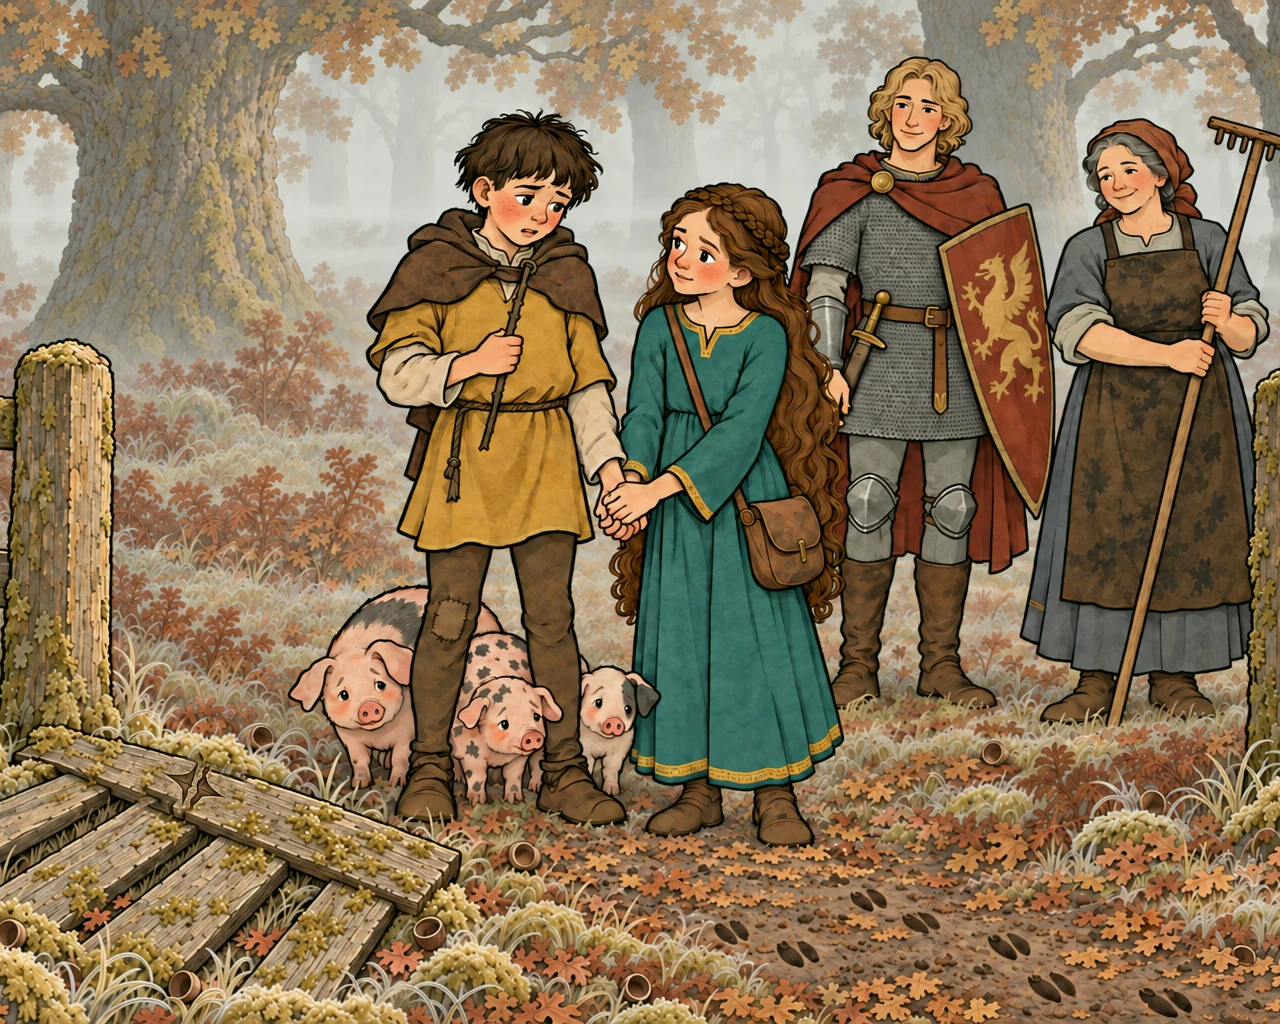
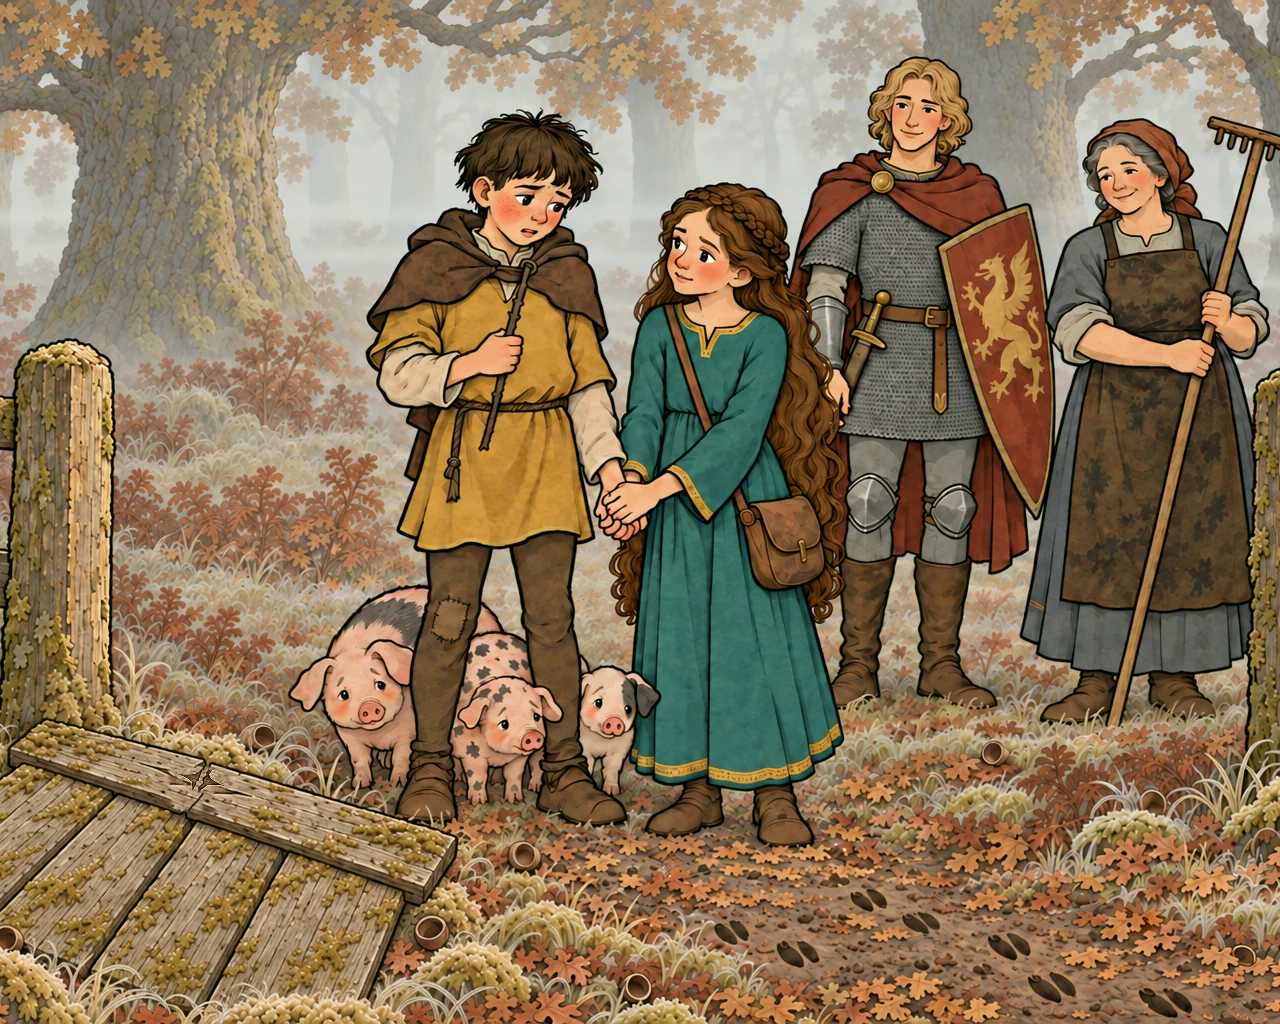
Forest p4: the old gate's four broad planks lie edge to edge, as on p3

Changed region(s): [[0.0, 0.6562, 0.4062, 1.0]]

diff --git a/prototypes/prompts/_build_forest.py b/prototypes/prompts/_build_forest.py
@@ -619,6 +619,16 @@ again("fo-p3-follow-piglets", "fo-p3-follow-pigletsf", "fo-p3-follow-pigletsh", 
       neg="no three-plank gate; no five planks; no narrow planks")
 # Shipped: fo-p5-ask-kindlyk = i + the four planks from j (crossbar and star kept); fo-p3-follow-pigletsi = f + the whole four-plank gate from h.
 
+# Author 2026-11-01: on p4 the old gate's planks were narrow with wide gaps of grass between them, unlike p3.
+again("fo-p4", "fo-p4h", "fo-p4i", "everything except the planks of the broken gate lying in the grass",
+      "the OLD broken gate lying in the grass looks exactly like the attached OLD GATE DETAIL (fo-old-gate-setting.png, cut from page 3 "
+      "of this tale): EXACTLY FOUR BROAD weathered grey planks lying side by side, edge to edge, with only thin dark seams between them "
+      "and no grass showing between the planks; together they are about as long as the crossbar is wide. The crossbar and its split "
+      "carved star stay exactly as they are, in the same place.", neg="no narrow planks; no gaps of grass between the planks; no fifth plank")
+m.PAGES["fo-p4"]["extra_refs"] = list(dict.fromkeys(list(m.PAGES["fo-p4"]["extra_refs"]) + ["fo-old-gate-setting.png"]))
+# Shipped: fo-p4j = h + the whole broad-plank gate from i; fo-p4k = j with i's wedge break cloned away and the canonical
+# split star transplanted at (330,780), scale 0.55, rot 12, squash 0.7, its crack carried down to the break in the lower edge.
+
 
 def emblem_again(pid, rev, keep, change, extra_neg=""):
     """Regenerate an emblem from its own take (refs/<pid>-composition.png), changing one thing."""
